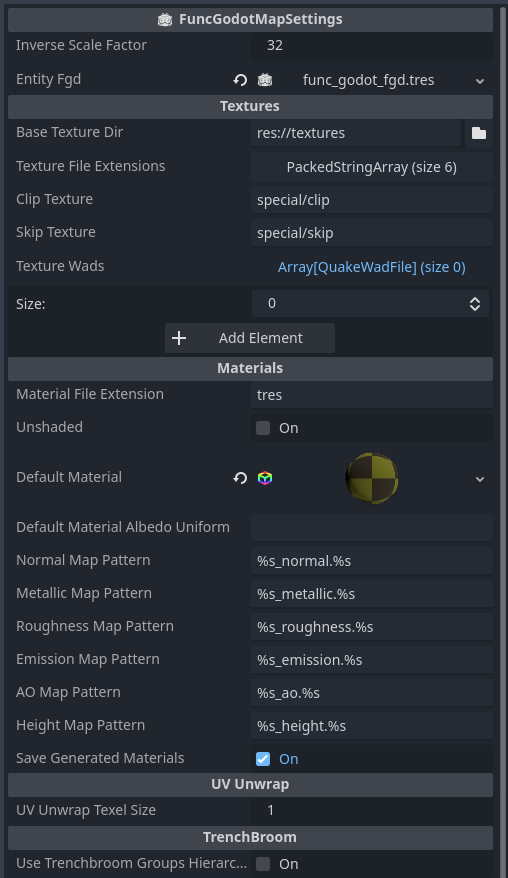
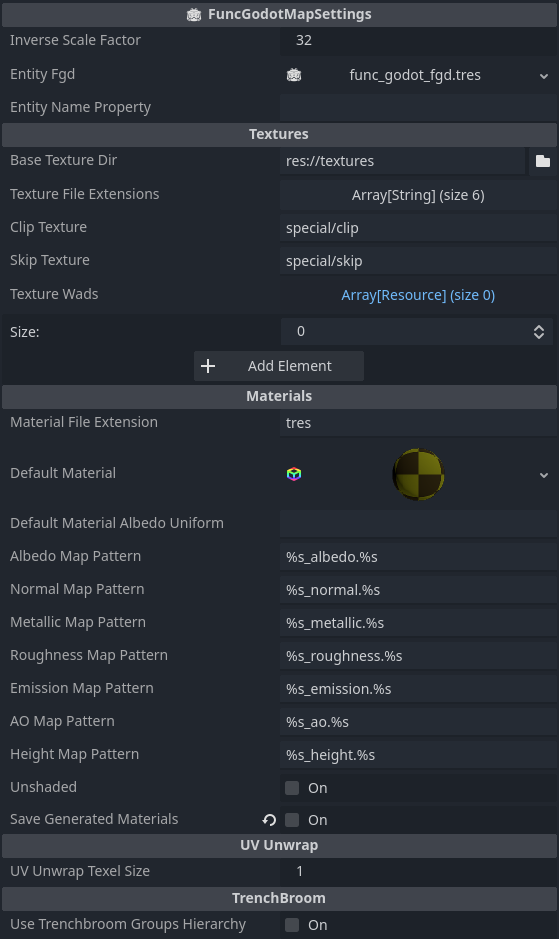
Add Entity Name Property to FuncGodotMapSettings Reference

Changed region(s): [[0.0, 0.0, 1.0, 1.0], [0.6791, 0.4613, 0.7972, 0.5843], [0.561, 0.4613, 0.5906, 0.492]]

diff --git a/FuncGodot Manual/pages/ref_func_godot_map.html b/FuncGodot Manual/pages/ref_func_godot_map.html
@@ -109,6 +109,17 @@
                 <td><a href="ref_fgd_resources.html#File" target="main">FuncGodotFGDFile</a></td>
                 <td>Resource file that translates map file classnames into Godot nodes and packed scenes.</td>
             </tr>
+            <tr>
+                <td>Entity Name Property</td>
+                <td>String</td>
+                <td>
+                    Default class property to use in naming generated nodes. This setting is overridden by <code>name_property</code> in 
+                    <a href="ref_fgd_resources.html#Entity" target="main">FuncGodotFGDEntityClass</a>. 
+                    Naming occurs before adding to the <i>SceneTree</i> and applying properties. 
+                    Nodes will be named <code>"entity_" + name_property</code>.<br><br>
+                    <i>NOTE: Node names should be unique, otherwise you may run into unexpected behavior!</i>
+                </td>
+            </tr>
 
             <tr class="header"><td>Textures</td><td></td><td></td></tr>
             <tr>
